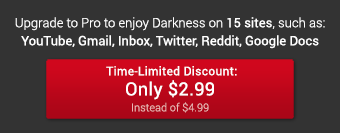
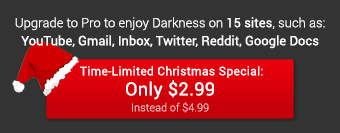
Christmas discount for everyone

diff --git a/chrome-extension/style/page.scss b/chrome-extension/style/page.scss
@@ -27,6 +27,10 @@ div.drk_settings_icon {
 	}
 }
 
+body[data-drk-type="n"] div.drk_settings_icon {
+	background: Transparent url('chrome-extension://__MSG_@@extension_id__/images/darkness-icon-in-page-promo.png') no-repeat center !important;
+}
+
 body[data-drk-site-support="ask-developers"] div.drk_settings_icon {
 	background: Transparent url('chrome-extension://__MSG_@@extension_id__/images/darkness-icon-in-page-ask-developers.png') no-repeat center !important;
 }

diff --git a/chrome-extension/js/page.js b/chrome-extension/js/page.js
@@ -230,6 +230,7 @@ if (!DarknessLoader) { // Don't load twice
 				return log("NOT appending HTML using " + method);
 			}
 			log("Appending HTML using " + method);
+			document.body.setAttribute('data-drk-type', ASSETS.TYPE);
 			document.body.setAttribute('data-drk-site', SITE);
 			document.body.setAttribute('data-drk-site-support', SITE_SUPPORT);
 			var d = document.createElement('div');

diff --git a/chrome-extension/js/background/payments.js b/chrome-extension/js/background/payments.js
@@ -224,6 +224,8 @@ var PaymentsFactory = function() {
 		if (passedDays > 7) {
 			return "2";
 		}
+		// Temporary:
+		DEFAULT_SKU = "2";
 		return DEFAULT_SKU;
 	}
 
